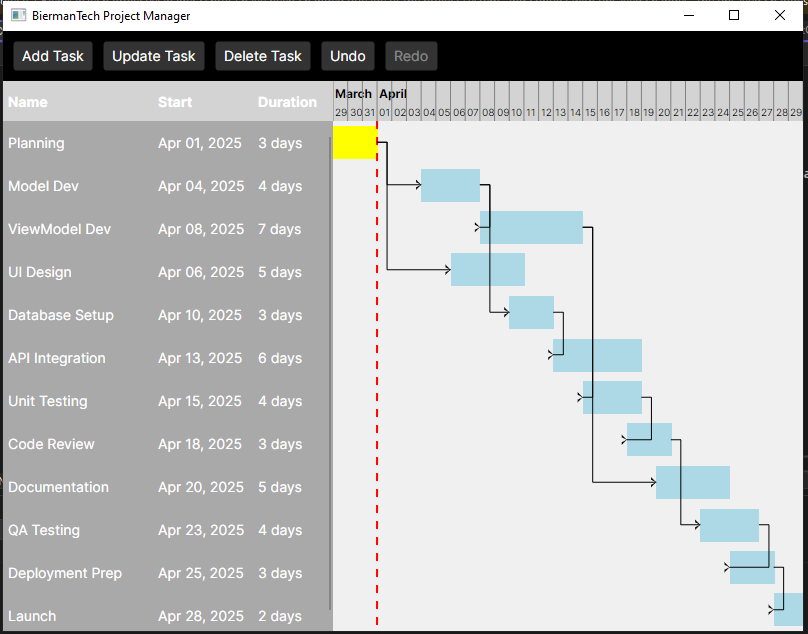
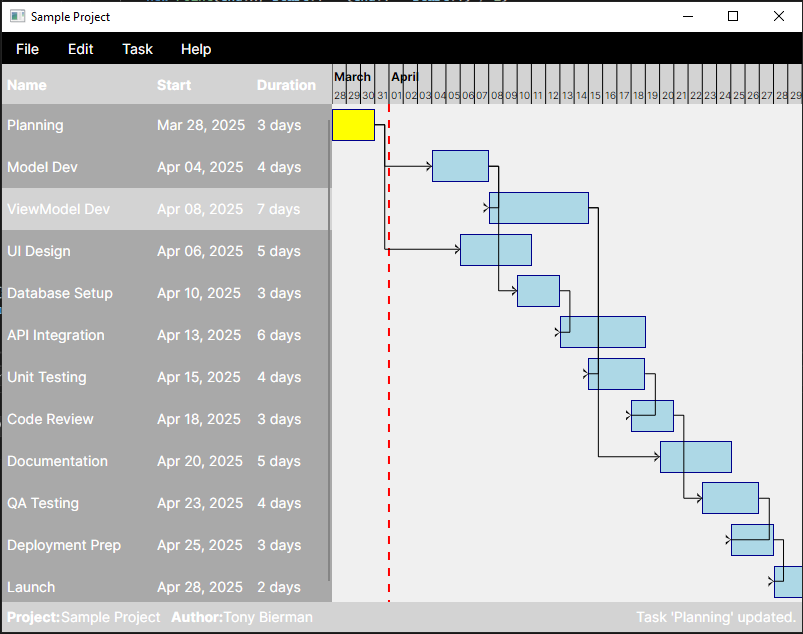
Border on task bars

diff --git a/BiermanTech.ProjectManager/Controls/GanttChartRenderer.cs b/BiermanTech.ProjectManager/Controls/GanttChartRenderer.cs
@@ -124,6 +124,10 @@ public class GanttChartRenderer
                 Width = Math.Max(width, 1),
                 Height = Math.Max(layout.RowHeight - 10, 1),
                 Fill = task == selectedTask ? GetResource<ISolidColorBrush>("TaskSelectedBrush") : GetResource<ISolidColorBrush>("TaskDefaultBrush"),
+                Stroke = GetResource<ISolidColorBrush>("TaskBorderBrush"),
+                StrokeThickness = GetResource<double>("TaskBorderThickness"),
+                // Uncomment the following line if you want a dashed border
+                // StrokeDashArray = GetResource<AvaloniaList<double>>("TaskBorderDashArray"),
                 [Canvas.LeftProperty] = x,
                 [Canvas.TopProperty] = y + 5,
                 Tag = task
@@ -145,6 +149,10 @@ public class GanttChartRenderer
                     Width = Math.Max(progressWidth, 1),
                     Height = Math.Max(layout.RowHeight - 10, 1),
                     Fill = GetResource<ISolidColorBrush>("TaskProgressBrush"),
+                    Stroke = GetResource<ISolidColorBrush>("TaskBorderBrush"),
+                    StrokeThickness = GetResource<double>("TaskBorderThickness"),
+                    // Uncomment the following line if you want a dashed border
+                    // StrokeDashArray = GetResource<AvaloniaList<double>>("TaskBorderDashArray"),
                     [Canvas.LeftProperty] = x,
                     [Canvas.TopProperty] = y + 5
                 };
